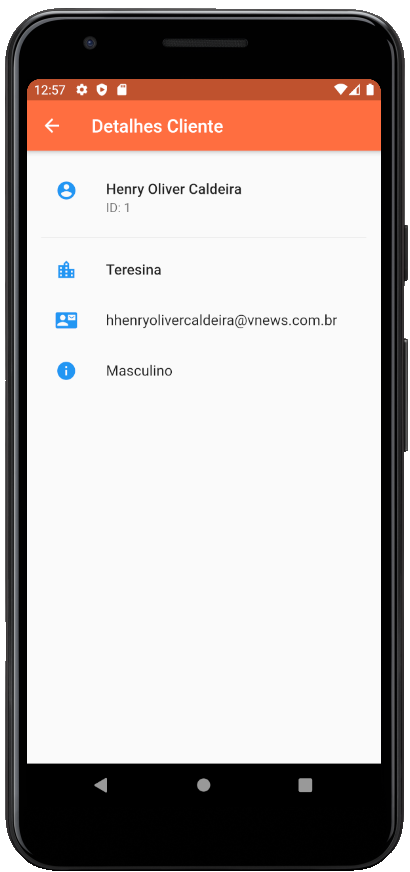
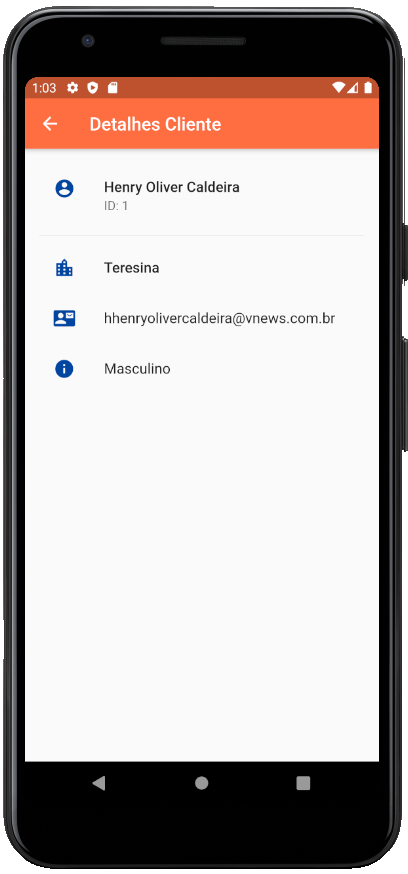
detalhes cliente ajuste

diff --git a/lib/clientes.dart b/lib/clientes.dart
@@ -123,7 +123,7 @@ class DetailScreen extends StatelessWidget {
             subtitle: Text('ID: '+cliente.id.toString()),
             leading: Icon(
               Icons.account_circle,
-              color: Colors.blue[500],
+              color: Colors.blue[900],
             ),
           ),
           Divider(),
@@ -132,21 +132,21 @@ class DetailScreen extends StatelessWidget {
                 style: TextStyle(fontWeight: FontWeight.w500)),
             leading: Icon(
               Icons.location_city,
-              color: Colors.blue[500],
+              color: Colors.blue[900],
             ),
           ),
           ListTile(
             title: Text(cliente.email),
             leading: Icon(
               Icons.contact_mail,
-              color: Colors.blue[500],
+              color: Colors.blue[900],
             ),
           ),
           ListTile(
             title: Text(cliente.sexo),
             leading: Icon(
               Icons.info,
-              color: Colors.blue[500],
+              color: Colors.blue[900],
             ),
           ),
         ],
